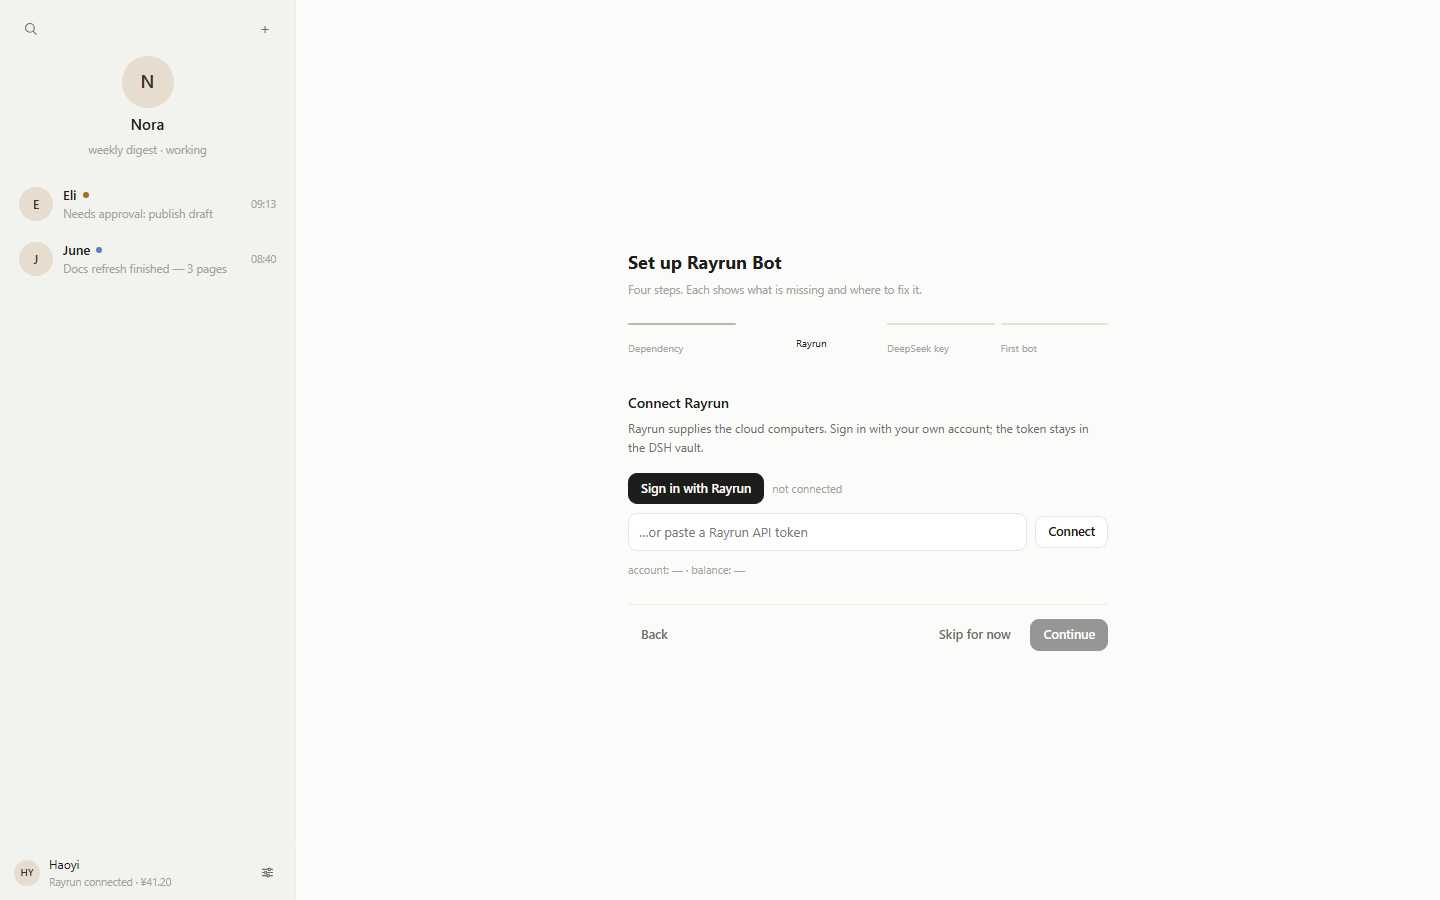
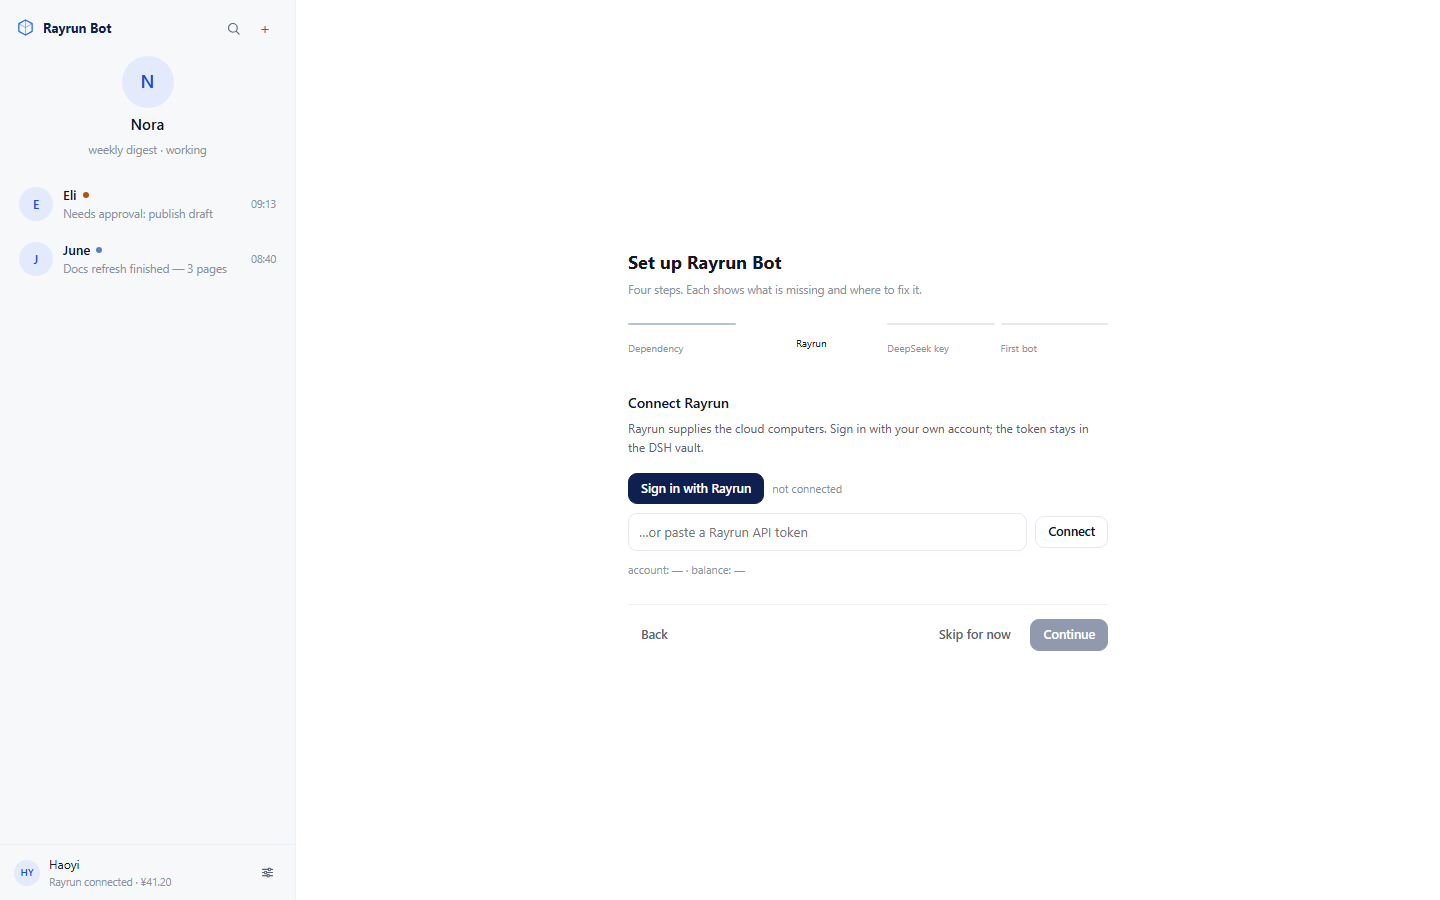
docs: apply the rayrunos.com visual language to the reference layout

diff --git a/docs/mockups/index.html b/docs/mockups/index.html
@@ -6,20 +6,20 @@
 <title>Rayrun Bot — UI mockup</title>
 <style>
   :root {
-    --bg: #f7f7f4;
-    --list: #f2f2ee;
-    --main: #fbfbf9;
+    --bg: #ffffff;
+    --list: #f7f8fa;
+    --main: #ffffff;
     --card: #ffffff;
-    --text: #1d1d1b;
-    --muted: #6f6f69;
-    --faint: #a3a39c;
-    --border: #e6e6df;
-    --border-soft: #efefe9;
-    --primary: #1d1d1b;
-    --on-primary: #fbfbf9;
-    --attention: #a3721f;
-    --danger: #a83226;
-    --success: #2f6b4f;
+    --text: #0f172a;
+    --muted: #5b6472;
+    --faint: #8a93a3;
+    --border: #e4e8f0;
+    --border-soft: #eef1f6;
+    --primary: #0e2050;
+    --on-primary: #ffffff;
+    --attention: #b45309;
+    --danger: #b42318;
+    --success: #15803d;
     --radius: 12px;
     --radius-sm: 9px;
     --mono: ui-monospace, SFMono-Regular, Menlo, Consolas, monospace;
@@ -30,7 +30,7 @@
   body { margin: 0; background: var(--bg); color: var(--text); font-family: var(--sans); font-size: 14px; line-height: 1.55; -webkit-font-smoothing: antialiased; }
   button { font: inherit; color: inherit; cursor: pointer; }
   ::-webkit-scrollbar { width: 9px; }
-  ::-webkit-scrollbar-thumb { background: #dcdcd5; border-radius: 5px; }
+  ::-webkit-scrollbar-thumb { background: #d5dbe6; border-radius: 5px; }
 
   .app { display: grid; grid-template-columns: 296px 1fr 328px; height: 100vh; overflow: hidden; }
   .app.no-detail { grid-template-columns: 296px 1fr; }
@@ -39,9 +39,12 @@
   .list { background: var(--list); border-right: 1px solid var(--border-soft); display: flex; flex-direction: column; min-height: 0; }
   .list-top { display: flex; align-items: center; justify-content: space-between; padding: 14px 16px 8px; }
   .icon { width: 28px; height: 28px; border: 0; border-radius: 8px; background: transparent; color: var(--muted); font-size: 16px; display: grid; place-items: center; }
-  .icon:hover { background: #e9e9e3; color: var(--text); }
+  .icon:hover { background: #eef2f8; color: var(--text); }
+  .list-top .brand { display: flex; align-items: center; gap: 8px; color: #0e2050; font-weight: 650; font-size: 13px; }
+  .list-top .mark { flex: none; }
+  .list-top .tools { display: flex; gap: 4px; }
   .current { display: grid; justify-items: center; gap: 5px; padding: 6px 16px 16px; text-align: center; }
-  .avatar { border-radius: 50%; display: grid; place-items: center; font-weight: 600; color: #3d332a; background: #e6ddcf; flex: none; }
+  .avatar { border-radius: 50%; display: grid; place-items: center; font-weight: 600; color: #1d4ed8; background: #e3eafc; flex: none; }
   .avatar.big { width: 52px; height: 52px; font-size: 18px; }
   .avatar.mid { width: 34px; height: 34px; font-size: 12px; }
   .avatar.sm { width: 26px; height: 26px; font-size: 10px; }
@@ -49,8 +52,8 @@
   .current .label { color: var(--faint); font-size: 11.5px; }
   .chats { overflow: auto; padding: 2px 10px 10px; display: flex; flex-direction: column; gap: 1px; min-height: 0; }
   .chatrow { display: grid; grid-template-columns: 34px 1fr auto; gap: 10px; align-items: center; padding: 8px 9px; border: 0; border-radius: 10px; background: transparent; text-align: left; }
-  .chatrow:hover { background: #eaeae4; }
-  .chatrow.active { background: #e5e5de; }
+  .chatrow:hover { background: #eef2f8; }
+  .chatrow.active { background: #eaf1fd; }
   .chatrow .nm { font-size: 13px; font-weight: 500; display: flex; align-items: center; gap: 6px; }
   .chatrow .sn { color: var(--faint); font-size: 11.5px; white-space: nowrap; overflow: hidden; text-overflow: ellipsis; max-width: 170px; }
   .chatrow .tm { color: var(--faint); font-size: 10.5px; }
@@ -75,9 +78,9 @@
   .msg p:last-child { margin-bottom: 0; }
   .msg ul { margin: 0 0 9px; padding-left: 18px; }
   .msg li { margin-bottom: 3px; }
-  .msg code { font-family: var(--mono); font-size: 12px; background: #efefe8; border-radius: 4px; padding: 1px 4px; }
+  .msg code { font-family: var(--mono); font-size: 12px; background: #eef2f8; border-radius: 4px; padding: 1px 4px; }
   .msg.user { grid-template-columns: 1fr; justify-items: end; }
-  .msg.user .bubble { background: #ecece5; border-radius: 12px; padding: 8px 13px; max-width: 560px; font-size: 13.5px; }
+  .msg.user .bubble { background: #f1f4f9; border-radius: 12px; padding: 8px 13px; max-width: 560px; font-size: 13.5px; }
 
   .card { border: 1px solid var(--border); background: var(--card); border-radius: var(--radius); padding: 13px 15px; display: grid; gap: 8px; margin: 2px 0; }
   .card .top { display: flex; align-items: baseline; justify-content: space-between; gap: 12px; }
@@ -88,14 +91,14 @@
   .card .warnline { color: var(--danger); font-size: 11.5px; }
   .card .meta { color: var(--faint); font-size: 10.5px; }
   .card .actions { display: flex; justify-content: flex-end; gap: 8px; padding-top: 2px; }
-  .draft { border: 1px solid var(--border-soft); background: #fafaf7; border-radius: var(--radius-sm); padding: 9px 11px; color: #4c4c47; font-size: 12px; white-space: pre-wrap; }
+  .draft { border: 1px solid var(--border-soft); background: #f7f9fc; border-radius: var(--radius-sm); padding: 9px 11px; color: #334155; font-size: 12px; white-space: pre-wrap; }
 
   .btn { border: 1px solid var(--border); background: var(--card); color: var(--text); border-radius: var(--radius-sm); padding: 5px 12px; font-size: 12.5px; font-weight: 500; }
-  .btn:hover { background: #f3f3ed; }
+  .btn:hover { background: #f5f7fb; }
   .btn.primary { background: var(--primary); border-color: var(--primary); color: var(--on-primary); }
-  .btn.primary:hover { background: #33332f; }
+  .btn.primary:hover { background: #16306e; }
   .btn.ghost { border-color: transparent; background: transparent; color: var(--muted); }
-  .btn.ghost:hover { color: var(--text); background: #f0f0ea; }
+  .btn.ghost:hover { color: var(--text); background: #eef2f8; }
   .btn:disabled { opacity: .45; cursor: not-allowed; }
 
   .notice { margin: 0 34px 8px; max-width: 760px; align-self: center; width: 100%; color: var(--attention); font-size: 11.5px; display: flex; gap: 7px; align-items: center; }
@@ -111,7 +114,7 @@
   .profile .sub { color: var(--faint); font-size: 11px; }
   .tabs { display: flex; justify-content: center; gap: 22px; border-bottom: 1px solid var(--border-soft); padding: 4px 16px 0; }
   .tab { border: 0; background: transparent; color: var(--faint); font-size: 12px; padding: 7px 0 9px; border-bottom: 1.5px solid transparent; }
-  .tab.active { color: var(--text); border-bottom-color: var(--text); }
+  .tab.active { color: #0e2050; border-bottom-color: var(--accent); }
   .sections { padding: 14px 16px 24px; display: grid; gap: 20px; }
   .sec h3 { margin: 0 0 8px; color: var(--faint); font-size: 10px; font-weight: 500; letter-spacing: .08em; text-transform: uppercase; }
   .act { background: var(--card); border: 1px solid var(--border); border-radius: 10px; padding: 10px 12px; display: grid; gap: 4px; margin-bottom: 7px; }
@@ -122,16 +125,16 @@
   .routine:last-child { border-bottom: 0; }
   .routine .t { font-size: 12px; }
   .routine .s { color: var(--faint); font-size: 10.5px; }
-  .toggle { width: 34px; height: 19px; border-radius: 10px; border: 0; background: #d8d8d1; position: relative; flex: none; }
+  .toggle { width: 34px; height: 19px; border-radius: 10px; border: 0; background: #cbd5e1; position: relative; flex: none; }
   .toggle::after { content: ""; position: absolute; top: 2px; left: 2px; width: 15px; height: 15px; border-radius: 50%; background: #fff; transition: left .12s; }
   .toggle.on { background: var(--primary); }
   .toggle.on::after { left: 17px; }
 
   .computer { display: grid; gap: 8px; }
   .computer .row { display: flex; align-items: center; gap: 9px; }
-  .thumb { width: 44px; height: 30px; border-radius: 5px; background: #1a1d24; border: 1px solid var(--border); position: relative; overflow: hidden; flex: none; }
-  .thumb::before { content: ""; position: absolute; inset: 18% 46% 18% 8%; background: #2a3347; border-radius: 2px; }
-  .thumb::after { content: ""; position: absolute; inset: 28% 8% 22% 58%; background: #33405c; border-radius: 2px; }
+  .thumb { width: 44px; height: 30px; border-radius: 5px; background: #0b1b3a; border: 1px solid var(--border); position: relative; overflow: hidden; flex: none; }
+  .thumb::before { content: ""; position: absolute; inset: 18% 46% 18% 8%; background: #14285a; border-radius: 2px; }
+  .thumb::after { content: ""; position: absolute; inset: 28% 8% 22% 58%; background: #22407f; border-radius: 2px; }
   .computer .nm { font-size: 12px; }
   .computer .st { color: var(--faint); font-size: 10.5px; }
   .computer .acts { display: flex; gap: 7px; }
@@ -152,7 +155,7 @@
   .srow select, .srow input { background: var(--card); border: 1px solid var(--border); border-radius: 8px; color: var(--text); font: inherit; font-size: 12.5px; padding: 5px 8px; }
   .snav { display: flex; gap: 16px; border-bottom: 1px solid var(--border-soft); margin-bottom: 8px; }
   .snav button { border: 0; background: transparent; color: var(--faint); font-size: 12px; padding: 8px 0; border-bottom: 1.5px solid transparent; }
-  .snav button.active { color: var(--text); border-bottom-color: var(--text); }
+  .snav button.active { color: #0e2050; border-bottom-color: var(--accent); }
 
   .wizard-wrap { min-height: 100%; display: grid; place-items: center; padding: 40px 20px; }
   .wizard { width: 480px; max-width: 100%; }
@@ -160,8 +163,8 @@
   .wizard .sub { color: var(--faint); margin: 0 0 24px; font-size: 11.5px; }
   .steps { display: flex; gap: 6px; margin-bottom: 24px; }
   .step { flex: 1; display: grid; gap: 5px; }
-  .step .bar { height: 2px; border-radius: 1px; background: #e2e2db; }
-  .step.done .bar { background: #b9b9b0; }
+  .step .bar { height: 2px; border-radius: 1px; background: #e4e8f0; }
+  .step.done .bar { background: #b6c2d6; }
   .step.current .bar { background: var(--text); }
   .step .lbl { font-size: 10px; color: var(--faint); }
   .step.current .lbl { color: var(--text); }
@@ -182,8 +185,11 @@
   <!-- ============ chat list ============ -->
   <aside class="list">
     <div class="list-top">
-      <button class="icon" title="Search"><svg width="15" height="15" viewBox="0 0 24 24" fill="none" stroke="currentColor" stroke-width="1.8" stroke-linecap="round"><circle cx="11" cy="11" r="7"></circle><path d="m16.5 16.5 4.5 4.5"></path></svg></button>
-      <button class="icon" data-go="newbot" title="New bot">+</button>
+      <div class="brand"><svg class="mark" width="19" height="19" viewBox="0 0 24 24" fill="none"><path d="M12 2.5 20.4 7.2v9.6L12 21.5 3.6 16.8V7.2Z" stroke="#2f6feb" stroke-width="1.7" stroke-linejoin="round"></path><path d="M12 2.5v19M3.6 7.2 12 12l8.4-4.8" stroke="#2f6feb" stroke-width="1.1" opacity=".6"></path></svg><span>Rayrun Bot</span></div>
+      <div class="tools">
+        <button class="icon" title="Search"><svg width="15" height="15" viewBox="0 0 24 24" fill="none" stroke="currentColor" stroke-width="1.8" stroke-linecap="round"><circle cx="11" cy="11" r="7"></circle><path d="m16.5 16.5 4.5 4.5"></path></svg></button>
+        <button class="icon" data-go="newbot" title="New bot">+</button>
+      </div>
     </div>
 
     <div class="current">

diff --git a/docs/ui-design.md b/docs/ui-design.md
@@ -3,7 +3,7 @@
 *Status: 2026-11-12 (rev 4). The client copies the layout of Grok Bot's desktop
 app as seen in the reference screenshot the user shared — one chat-list column, a
 markdown conversation in the middle, a per-bot details panel on the right — in a
-light, warm, low-contrast palette. Approvals are inline cards, not a separate
+the visual language of rayrunos.com: white canvas, navy primary buttons, blue accents, hairline borders. Approvals are inline cards, not a separate
 inbox. The clickable reference is [`docs/mockups/index.html`](mockups/index.html);
 append `#library`, `#newbot`, `#setup` or `#settings` to the URL for the other
 screens. Related: [client-plan.md](client-plan.md) (surfaces, RPC),
@@ -41,7 +41,7 @@ Rendered previews: [conversation](mockups/conversation.png) · [library](mockups
 
 ```
 ┌────────────────────┬───────────────────────────────────────┬──────────────────┐
-│ ⌕                + │                                       │      ◉ Nora      │
+│ ▣ Rayrun Bot  ⌕  + │                                       │      ◉ Nora      │
 │                    │                                       │   weekly digest  │
 │      ◉ Nora        │  … markdown conversation …            │  Activity Library│
 │   weekly digest    │  Today 20:07                          │                  │
@@ -68,7 +68,7 @@ Column widths: 296 px / flexible / 328 px. The details column collapses below
 
 ### 2.1 Chat list
 
-- Top row: search icon and `+` (new bot).
+- Top row: Rayrun mark and wordmark, search, `+` (new bot).
 - Current bot block: 52 px avatar, name, `job · state`.
 - Rows: 34 px avatar, name, one-line latest snippet, time; a 6 px dot marks
   needs attention (amber), unread (blue) or working (green). Opening a row marks
@@ -143,8 +143,7 @@ and RPC still expose the same list for future views.
 | Bot name, picture, job label; light persona | `bots.md:5-6,77-103`; [bot-persona.md](bot-persona.md) | copied; monogram avatar in v0.1 |
 | Voice chat, group chats, mobile, shared bots, marketplace, Vault, Auto Review | Grok Bot product surface | out of v0.1 (§8) |
 
-The reference screenshot is the primary style anchor: light warm neutrals, small
-monochrome icons, generous whitespace, no colored panels.
+Two anchors: the reference screenshot decides the layout (three columns, chat-list rows, details panel); rayrunos.com decides the look (white canvas, light gray panels, navy primary buttons, blue active pills, hairline borders, dark navy terminal surfaces, blue geometric mark).
 
 ## 4. Component inventory
 
@@ -201,31 +200,39 @@ Approval and key copy never contains jokes; every error row has one next action.
 
 ## 6. Visual system
 
-Warm light neutral, near-monochrome; Rayrun's mark is the only brand color.
+Two anchors: the reference screenshot decides the layout (§1–§3); rayrunos.com
+decides the look. Captured from the Rayrun site and docs on 2026-11-12: white
+canvas, very light gray panels, hairline gray borders, dark navy primary buttons,
+blue links and active pills, dark navy terminal surfaces, a blue geometric logo
+mark, and bold CJK-friendly headings.
 
 | Token | Value | Use |
 | --- | --- | --- |
-| `bg` | `#f7f7f4` | window / details background |
-| `list` | `#f2f2ee` | chat list, details panel |
-| `main` | `#fbfbf9` | conversation canvas |
+| `bg` | `#ffffff` | app canvas |
+| `list` | `#f7f8fa` | chat list, details panel |
+| `main` | `#ffffff` | conversation canvas |
 | `card` | `#ffffff` | approval, draft, receipt cards |
-| `text` | `#1d1d1b` | primary text |
-| `muted` | `#6f6f69` | secondary text |
-| `faint` | `#a3a39c` | timestamps, hints |
-| `border` | `#e6e6df` | card and control borders |
-| `border-soft` | `#efefe9` | list separators |
-| `primary` | `#1d1d1b` on `#fbfbf9` | primary buttons, send |
-| `success` | `#2f6b4f` | done / working |
-| `attention` | `#a3721f` | needs attention, warnings |
-| `danger` | `#a83226` | deny, irreversible warnings |
-| `brand` | `#4f7cf0` | Rayrun logo mark only |
+| `text` | `#0f172a` | primary text (slate/navy) |
+| `muted` | `#5b6472` | secondary text |
+| `faint` | `#8a93a3` | timestamps, hints |
+| `border` | `#e4e8f0` | card and control borders |
+| `border-soft` | `#eef1f6` | list separators |
+| `primary` | `#0e2050` on `#ffffff` | primary buttons, send, toggles |
+| `accent` | `#1d4ed8` | links, active rows, tabs |
+| `accent-soft` | `#eaf1fd` | selected chat row |
+| `success` | `#15803d` | done / working |
+| `attention` | `#b45309` on `#fff7e6` | needs attention, warnings |
+| `danger` | `#b42318` on `#fff5f4` | deny, irreversible warnings |
+| `brand` | `#2f6feb` | Rayrun logo mark only |
 
-Rules: one border weight, one shadow level at most, 12 px card radius / 9 px
-controls, no gradients, no colored panels. Avatars are monograms in muted warm
-tones in v0.1; the official Rayrun mark and wordmark sit in the app's brand spot.
-Type: system stack with `PingFang SC` / `Microsoft YaHei` fallbacks; 14 px body,
-13 px UI labels, 18 px page titles. Motion 120 ms; honor
-`prefers-reduced-motion`. Dark mode follows DSH when available.
+Rules: white cards on light-gray panels; navy primary controls; blue reserved for
+links, selected rows and tabs; amber only for warnings; one border weight and one
+shadow level; radii 12 px cards / 9 px controls; no gradients or colored panels.
+Brand: the official Rayrun mark and the "Rayrun Bot" wordmark sit at the top of
+the chat list — the mark is the only brand blue, and the wordmark is never
+restyled. Type: system stack with `PingFang SC` / `Microsoft YaHei` fallbacks;
+14 px body, 13 px UI labels, 18 px page titles. Motion 120 ms; honor
+`prefers-reduced-motion`. Light only in v0.1; dark follows DSH when available.
 
 ## 7. Accessibility and responsive
 
